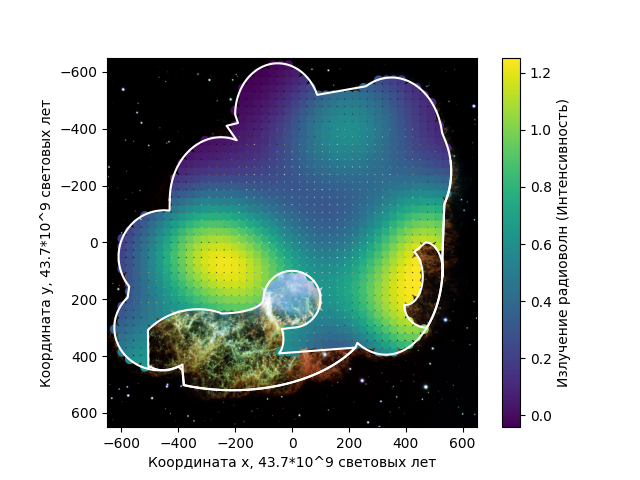
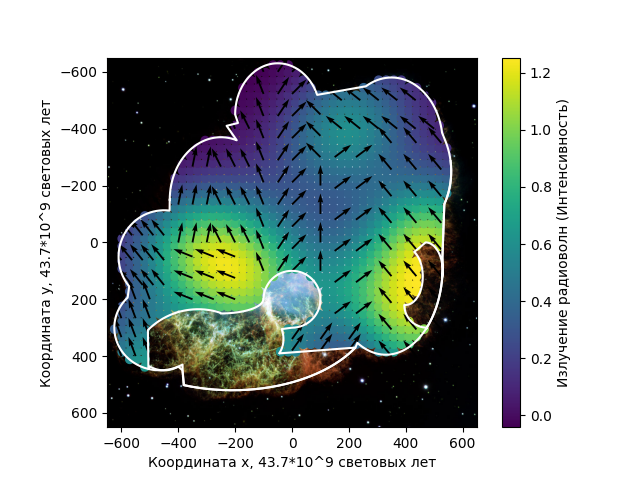
23132

diff --git a/homework_crab_nebula_scalar_fields.py b/homework_crab_nebula_scalar_fields.py
@@ -431,10 +431,74 @@ ax.set_xlabel('Координата x, 43.7*10^9 световых лет')
 ax.set_ylabel('Координата y, 43.7*10^9 световых лет')
 
 #VECTORS
-#x, y = 
-#u = x 
-#v = y 
-#plt.quiver(x, y, u, v, width=0.005)
+x, y = np.meshgrid(np.linspace(-650, -500, 4), np.linspace(200, 400, 4))
+u = -3
+v = 8
+plt.quiver(x, y, u, v, width=0.005)
+
+x, y = np.meshgrid(np.linspace(-600, -450, 5), np.linspace(-200, 150, 5))
+u = -4
+v = 5
+plt.quiver(x, y, u, v, width=0.005)
+
+x, y = np.meshgrid(np.linspace(-400, -300, 3), np.linspace(-400, 0, 4))
+u = 2
+v = 10
+plt.quiver(x, y, u, v, width=0.005)
+x, y = np.meshgrid(np.linspace(-250, -150, 3), np.linspace(-400, 0, 4))
+u = -5
+v = 10
+plt.quiver(x, y, u, v, width=0.005)
+
+x, y = np.meshgrid(np.linspace(-350, -200, 3), np.linspace(50, 200, 3))
+u = -10
+v = 4
+plt.quiver(x, y, u, v, width=0.005)
+
+x, y = np.meshgrid(np.linspace(-100, -100, 1), np.linspace(-600, 100, 10))
+u = -2
+v = 5
+plt.quiver(x, y, u, v, width=0.005)
+
+x, y = np.meshgrid(np.linspace(-50, -50, 1), np.linspace(-600, 100, 10))
+u = 2
+v = 3
+plt.quiver(x, y, u, v, width=0.005)
+
+x, y = np.meshgrid(np.linspace(0, 0, 1), np.linspace(-600, 100, 10))
+u = 2
+v = 2
+plt.quiver(x, y, u, v, width=0.005)
+
+x, y = np.meshgrid(np.linspace(100, 100, 1), np.linspace(-200, 100, 4))
+u = 0
+v = 3
+plt.quiver(x, y, u, v, width=0.005)
+
+x, y = np.meshgrid(np.linspace(100, 100, 1), np.linspace(-450, -300, 3))
+u = -5
+v = 5
+plt.quiver(x, y, u, v, width=0.005)
+
+x, y = np.meshgrid(np.linspace(150, 225, 2), np.linspace(250, -300, 6))
+u = 4
+v = 3
+plt.quiver(x, y, u, v, width=0.005)
+
+x, y = np.meshgrid(np.linspace(175, 500, 6), np.linspace(-600, -400, 3))
+u = -10
+v = 8
+plt.quiver(x, y, u, v, width=0.005)
+
+x, y = np.meshgrid(np.linspace(350, 525, 3), np.linspace(-350, 400, 9))
+u = -10
+v = 12
+plt.quiver(x, y, u, v, width=0.005)
+
+x, y = np.meshgrid(np.linspace(0, 200, 3), np.linspace(340, 380, 2))
+u = 10
+v = 14
+plt.quiver(x, y, u, v, width=0.005)
 
 cbar = fig.colorbar(sc_plot)
 cbar.set_label('Излучение радиоволн (Интенсивность)')
